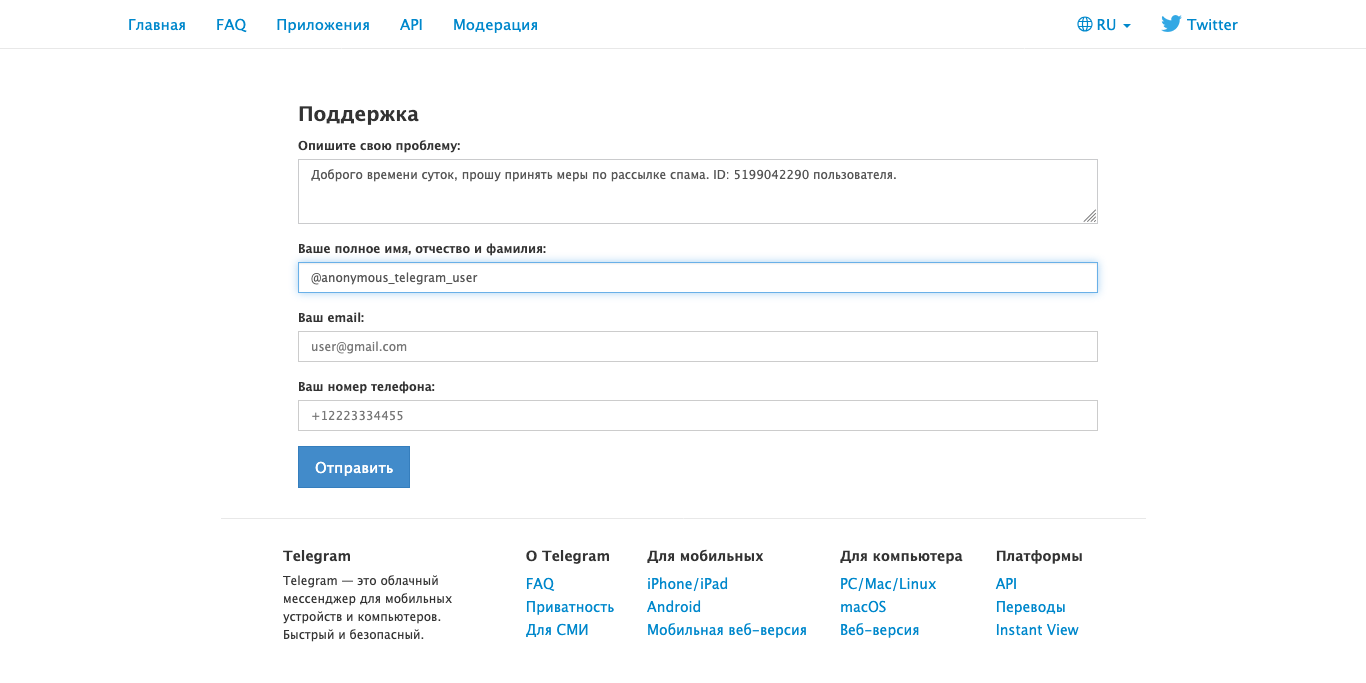
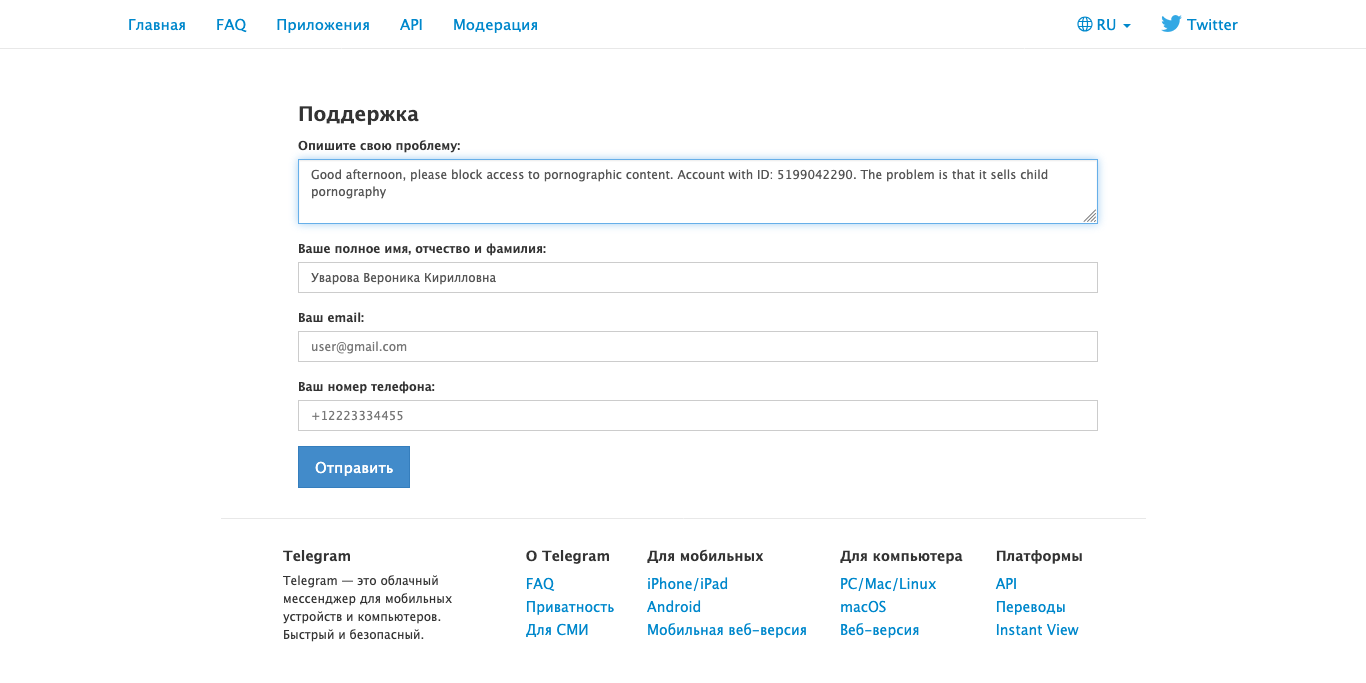
Краткое описание изменений

Changed region(s): [[0.2152, 0.2152, 0.7994, 0.3382], [0.2152, 0.369, 0.7994, 0.4305]]

diff --git a/stg.py b/stg.py
@@ -163,6 +163,28 @@ def send_to_telegram_support_selenium(data, complaint_text):
              filled_fields_screenshot = os.path.join(os.getcwd(), "filled_fields_screenshot.png")
              driver.save_screenshot(filled_fields_screenshot)
              print(f"[INFO] Скриншот после заполнения полей сохранён: {filled_fields_screenshot}")
+
+             # Находим кнопку "Отправить" по классу
+             submit_button = WebDriverWait(driver, 10).until(
+                 EC.element_to_be_clickable((By.CLASS_NAME, "btn-primary"))
+             )
+             
+             try:
+                 # Заново находим кнопку "Отправить", если DOM был обновлён
+                 submit_button = WebDriverWait(driver, 10).until(
+                 EC.element_to_be_clickable((By.CLASS_NAME, "btn-primary"))
+                 )
+                 submit_button.click()
+                 print(f"[{Fore.GREEN}+{Style.RESET_ALL}] Жалоба успешно отправлена через Selenium.")
+             except TimeoutException:
+                 print(f"[{Fore.RED}-{Style.RESET_ALL}] Кнопка 'Отправить' не найдена.")
+             except StaleElementReferenceException:
+                 print(f"[{Fore.RED}-{Style.RESET_ALL}] Кнопка 'Отправить' стала недействительной. Переинициализация...")
+                 submit_button = WebDriverWait(driver, 10).until(
+                 EC.element_to_be_clickable((By.CLASS_NAME, "btn-primary"))
+                 )           
+            # Нажимаем на кнопку
+                 submit_button.click()
  
              # Поля e-mail и номера телефона уже заполнены, отправляем форму
              message_field.send_keys(Keys.RETURN)
@@ -191,10 +213,10 @@ def send_to_telegram_support_selenium(data, complaint_text):
                  for element in all_elements:
                      f.write(f"Tag: {element.tag_name}, Attributes: {element.get_attribute('outerHTML')}\n")
              print(f"[{Fore.YELLOW}*{Style.RESET_ALL}] Все элементы страницы сохранены в 'elements_log.txt'.")
-     except WebDriverException as e:
+    except WebDriverException as e:
          print(f"[{Fore.RED}-{Style.RESET_ALL}] Ошибка при отправке через Selenium: {e}")
          log_status(f"Ошибка при отправке через Selenium: {e}")
-     finally:
+    finally:
          if driver:
              driver.quit()
 
@@ -222,9 +244,9 @@ def send_requests(data):
             complaint_template = random.choice(complaint_types[complaint_type]["texts"])
             if user_id:
                 complaint_text = complaint_template.format(
-                    user=username,
-                    user_id=user_id,
-                    violation_link=violation_link,
+                user=data["username"],
+                user_id=data["user_id"] or "не указан",
+                violation_link=data["violation_link"] or "не указана"
                 )
             else:
                 # Если user_id отсутствует, формируем текст без него
